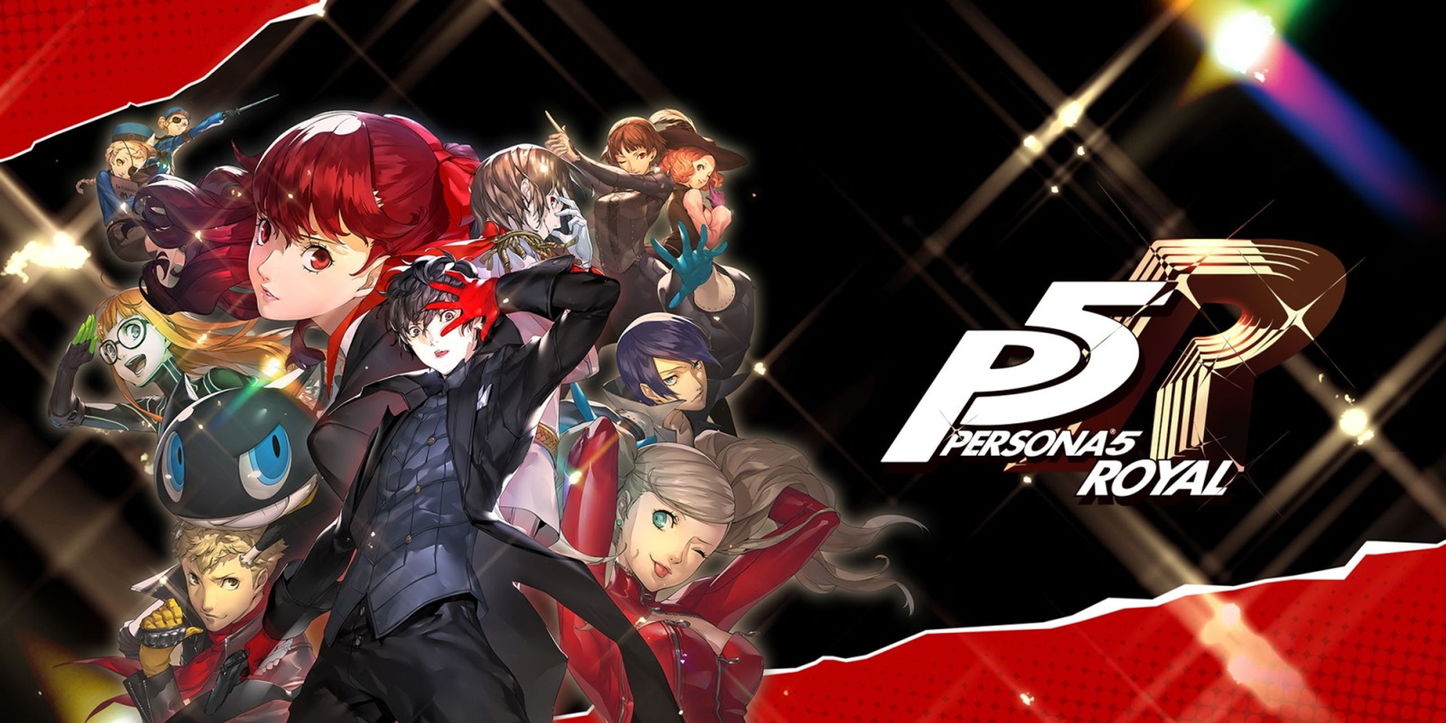
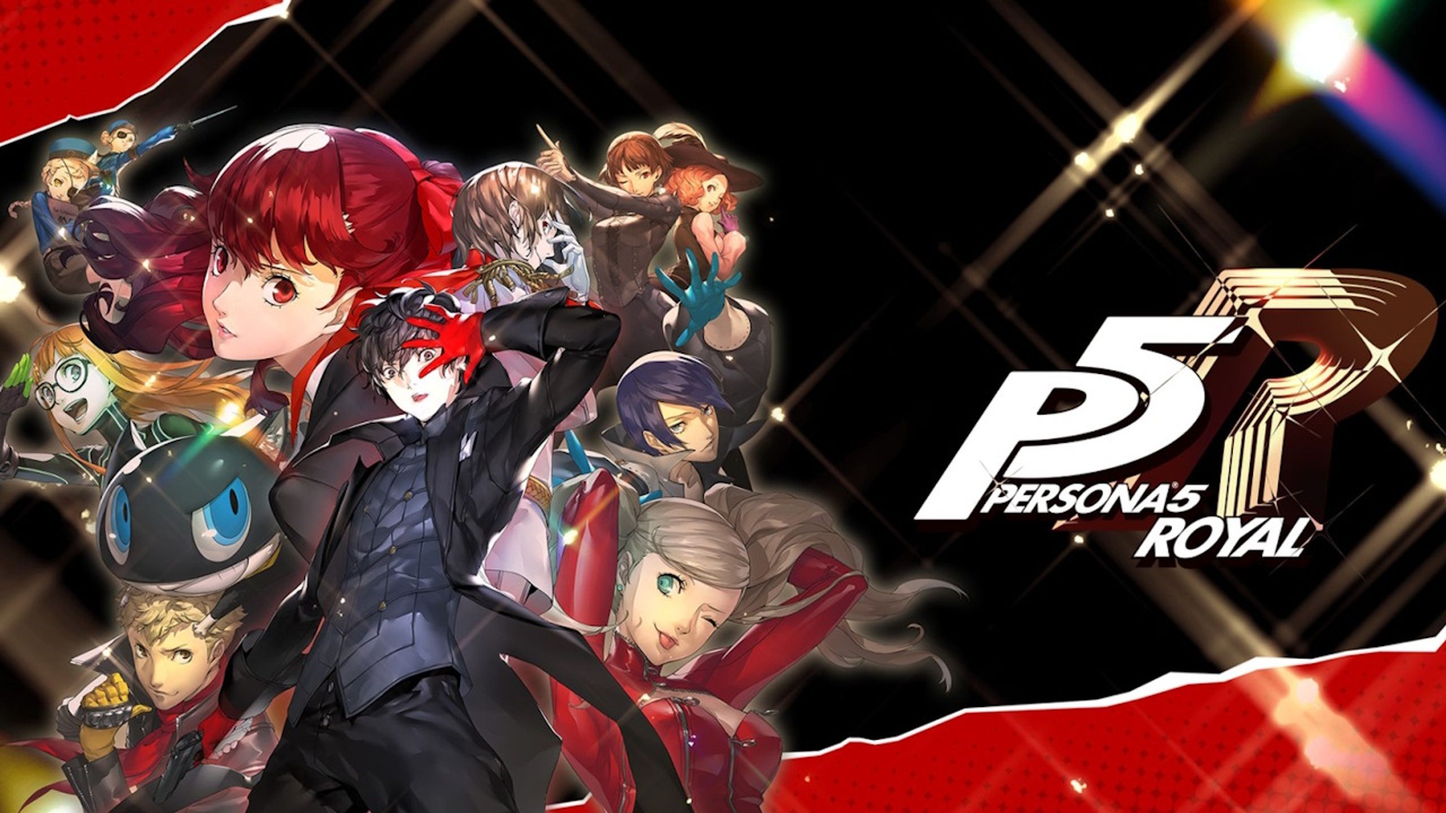
Reescalado de imágenes

diff --git a/script.js b/script.js
@@ -14,6 +14,7 @@ let tamaños = ["-small-", "-medium-", "-large-", "-xlarge-"];
 // Array para almacenar los juegos y sus datos.
 let listadoJuegos = [
   {
+    id: "CassetteBeasts",
     name: "Cassette Beasts",
     img: "CassetteBeasts",
     imgExtension: ".jpeg",
@@ -23,6 +24,7 @@ let listadoJuegos = [
       "Comencé este juego escéptico, sin muchas expectativas. Pensé que sería un clon de Pokémon más, pero ha resultado ser una experiencia totalmente distinta con una identidad propia y bien diferenciada. Un juego muy recomendable. Mención especial a su maravillosa banda sonora.",
   },
   {
+    id: "ZeldaEchoes",
     name: "The Legend of Zelda: Echoes of Wisdom",
     img: "ZeldaEchoes",
     imgExtension: ".jpg",
@@ -30,6 +32,7 @@ let listadoJuegos = [
     opinion: "",
   },
   {
+    id: "PaperMarioRemake",
     name: "Paper Mario The Thousand Year Door Remake",
     img: "PaperMarioRemake",
     imgExtension: ".jpg",
@@ -37,6 +40,7 @@ let listadoJuegos = [
     opinion: "",
   },
   {
+    id: "FireEmblemAwakening",
     name: "Fire Emblem Awakening",
     img: "FireEmblemAwakening",
     imgExtension: ".jpg",
@@ -44,6 +48,7 @@ let listadoJuegos = [
     opinion: "",
   },
   {
+    id: "Minecraft",
     name: "Minecraft",
     img: "Minecraft",
     imgExtension: ".jpg",
@@ -51,6 +56,7 @@ let listadoJuegos = [
     opinion: "",
   },
   {
+    id: "RingRacers",
     name: "Dr. Robotnik's Ring Racers",
     img: "RingRacers",
     imgExtension: ".jpg",
@@ -58,6 +64,7 @@ let listadoJuegos = [
     opinion: "",
   },
   {
+    id: "SonicXShadow",
     name: "Sonic X Shadow Generations",
     img: "SonicXShadow",
     imgExtension: ".jpg",
@@ -65,6 +72,7 @@ let listadoJuegos = [
     opinion: "",
   },
   {
+    id: "Persona5Royal",
     name: "Persona 5 Royal",
     img: "Persona5Royal",
     imgExtension: ".jpg",
@@ -77,18 +85,22 @@ let listadoJuegos = [
 let columna;
 let modal;
 for (let juego of listadoJuegos) {
-  // Clono la plantilla y la inserto para modificarla.
+  // Clono las plantilla de la col y la modal, y las inserto para modificarlas.
   columna = plantillaCol.cloneNode(true);
   contenedorCols.appendChild(columna);
+  modal = plantillaModal.cloneNode(true);
+  contenedorModals.appendChild(modal);
 
   let propiedad;
-  // Compruebo si el juego tiene nombre, y en este caso lo voy a utilizar como su identificador.
-  if (juego.name) {
-    // Primero cambio el ID para evitar errores.
-    columna.setAttribute("id", "col_" + juego.name);
+  // Compruebo si el juego tiene ID.
+  if (juego.id) {
+    // Primero cambio los ID para evitar errores.
+    columna.setAttribute("id", "col_" + juego.id);
+    modal.setAttribute("id", "modal_" + juego.id);
 
+    // Cambio la foto de la card.
     propiedad = document.getElementById("imgCardPlantilla");
-    propiedad.setAttribute("id", "imgCard_" + juego.name);
+    propiedad.setAttribute("id", "imgCard_" + juego.id);
     if (juego.img) {
       propiedad.setAttribute(
         "src",
@@ -96,11 +108,26 @@ for (let juego of listadoJuegos) {
       );
     }
 
+    // Cambio el título del juego de la card.
     propiedad = document.getElementById("titleCardPlantilla");
-    propiedad.setAttribute("id", "titleCard_" + juego.name);
-    propiedad.childNodes[0].nodeValue = juego.name;
+    propiedad.setAttribute("id", "titleCard_" + juego.id);
+    if (juego.name){
+        propiedad.childNodes[0].nodeValue = juego.name;
+    }
+    
+    // Cambio el enlace a la modal.
+    propiedad = document.getElementById("enlaceCardPlantilla");
+    propiedad.setAttribute("id", "enlaceCard_" + juego.id);
+    propiedad.setAttribute("data-bs-target", "#modal_" + juego.id);
+
+
+    // Cambio el título del juego de la modal.
+    propiedad = document.getElementById("titleModalPlantilla");
+    propiedad.setAttribute("id", "titleModal_" + juego.id);
+    if (juego.name){
+        propiedad.childNodes[0].nodeValue = juego.name;
+    }
   }
 
-  modal = plantillaModal.cloneNode(true);
-  contenedorModals.appendChild(modal);
+
 }

diff --git a/index.html b/index.html
@@ -24,10 +24,10 @@
     <main>
         <section class="mt-4 container">
             <div class="row justify-content-between">
-                <div class="col-12 col-sm-6 col-lg-3 mb-2" id="colPlantilla">
+                <div class="col-12 col-sm-6 col-lg-3 mb-3" id="colPlantilla">
                     <div class="card h-100">
-                        <a href="" class="text-decoration-none text-black" data-bs-toggle="modal" data-bs-target="#modalPlantilla" id="enlacePlantilla">
-                            <img class="card-img-top" src="img/placeholder.jpg" alt="Placeholder img" id="imgCardPlantilla" height="171.23px">
+                        <a href="" class="text-decoration-none text-black" data-bs-toggle="modal" data-bs-target="#modalPlantilla" id="enlaceCardPlantilla">
+                            <img class="card-img-top" src="img/placeholder.jpg" alt="Placeholder img" id="imgCardPlantilla">
                         
                             <div class="card-body h-auto">
                                 <h4 class="card-title" id="titleCardPlantilla">Title</h4>
